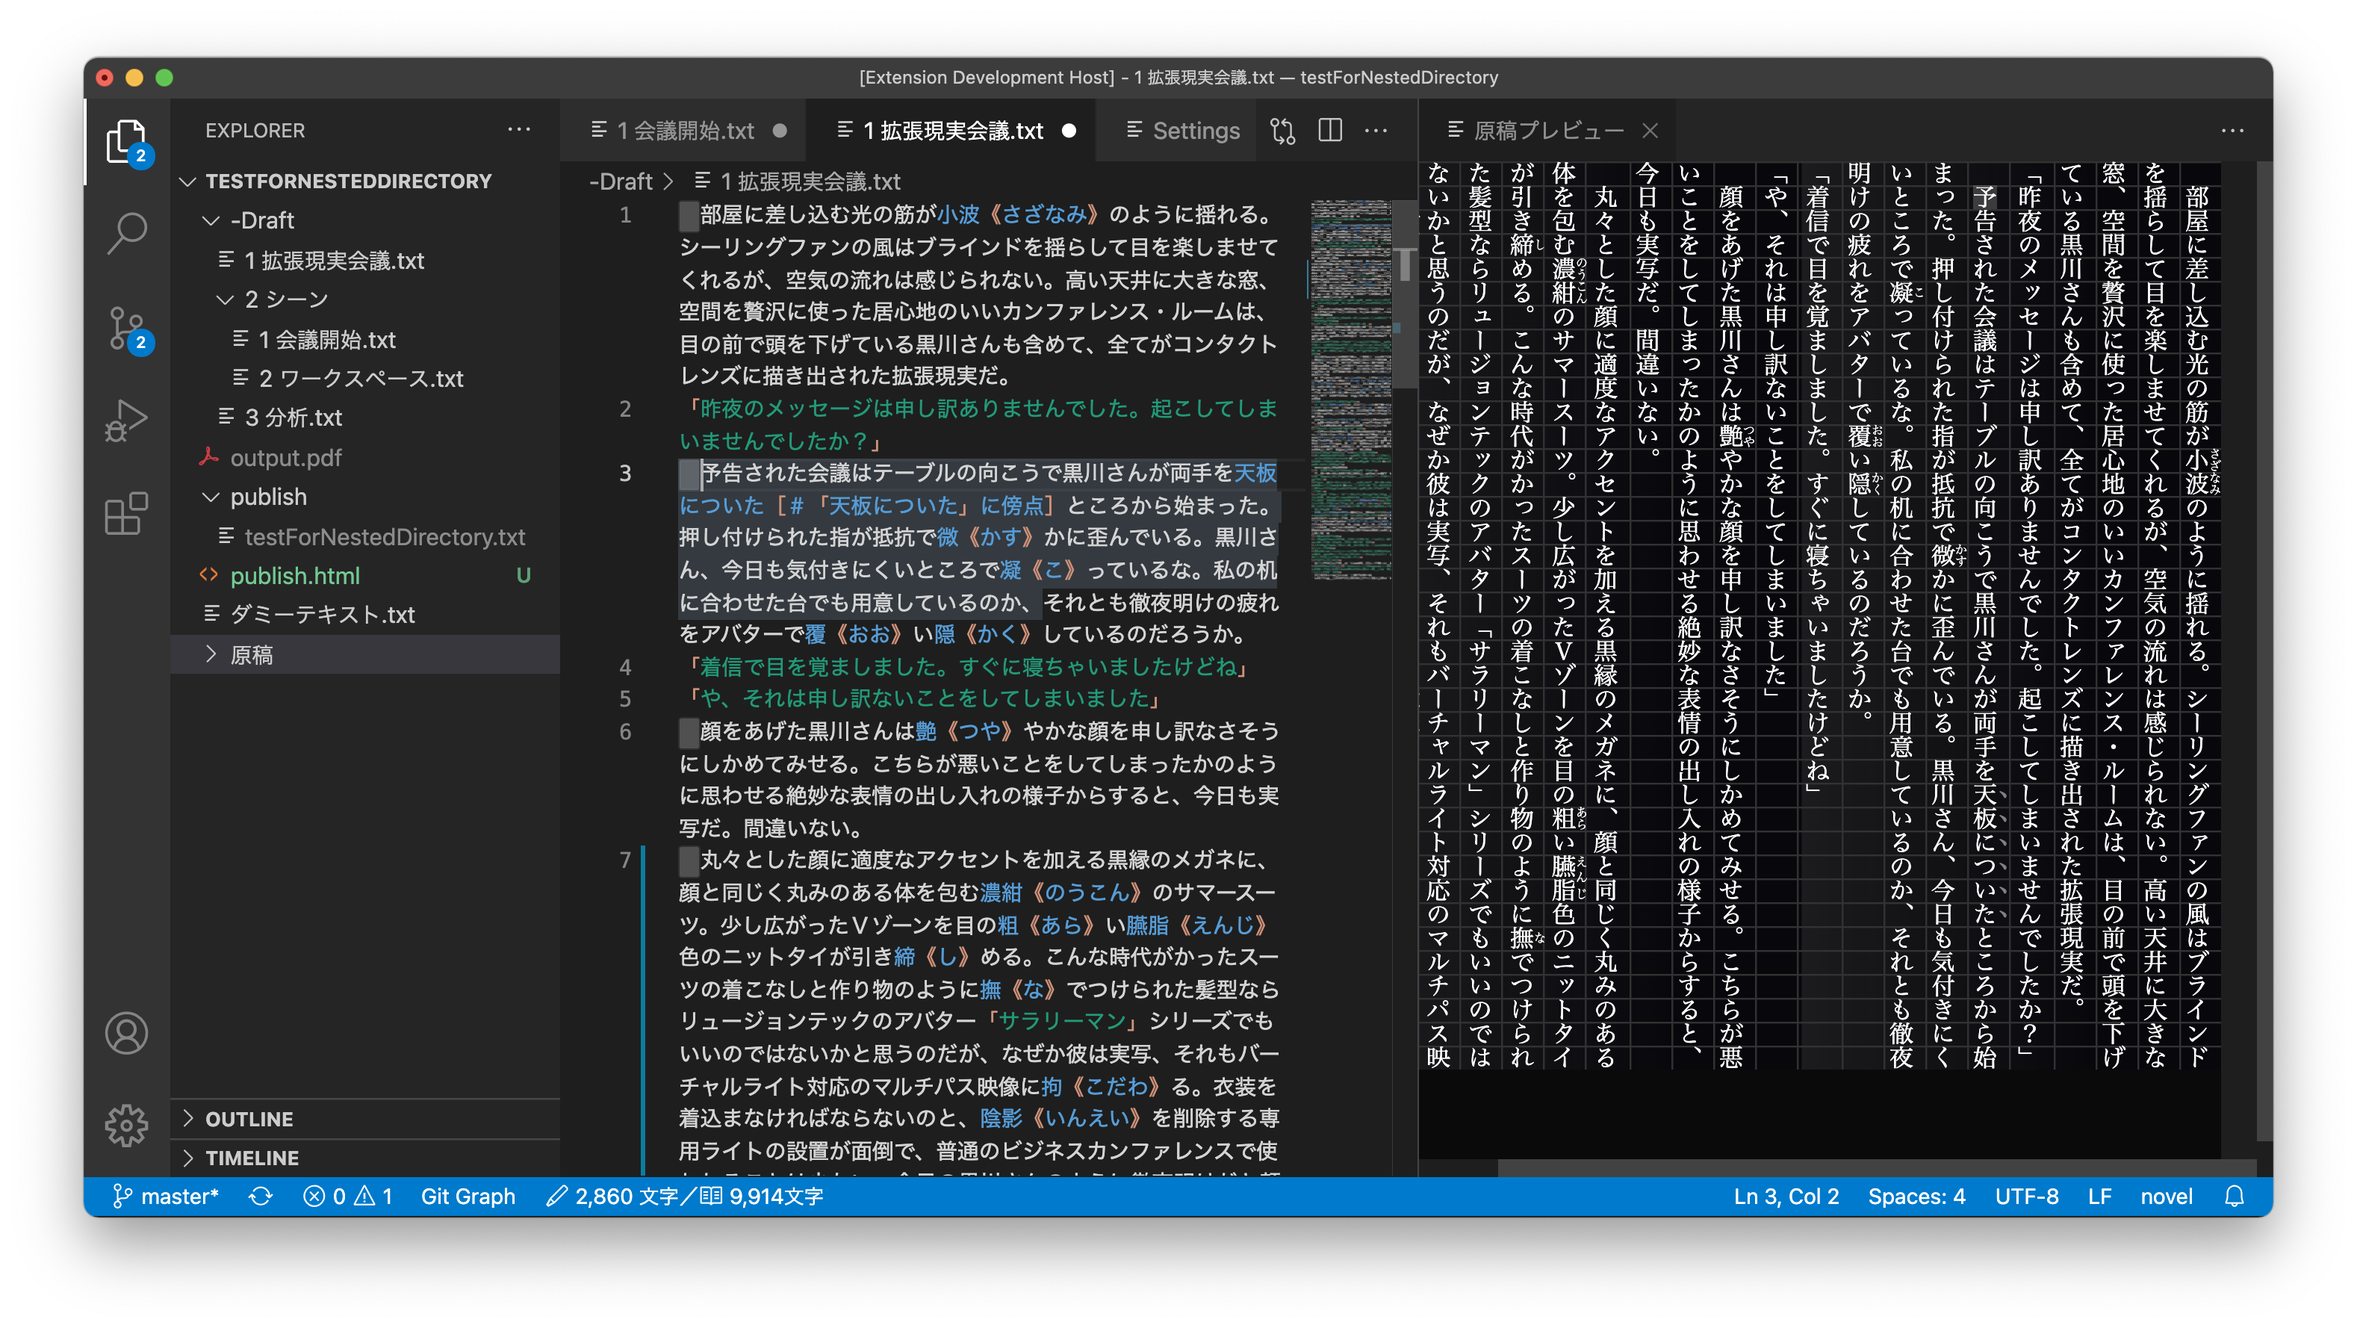
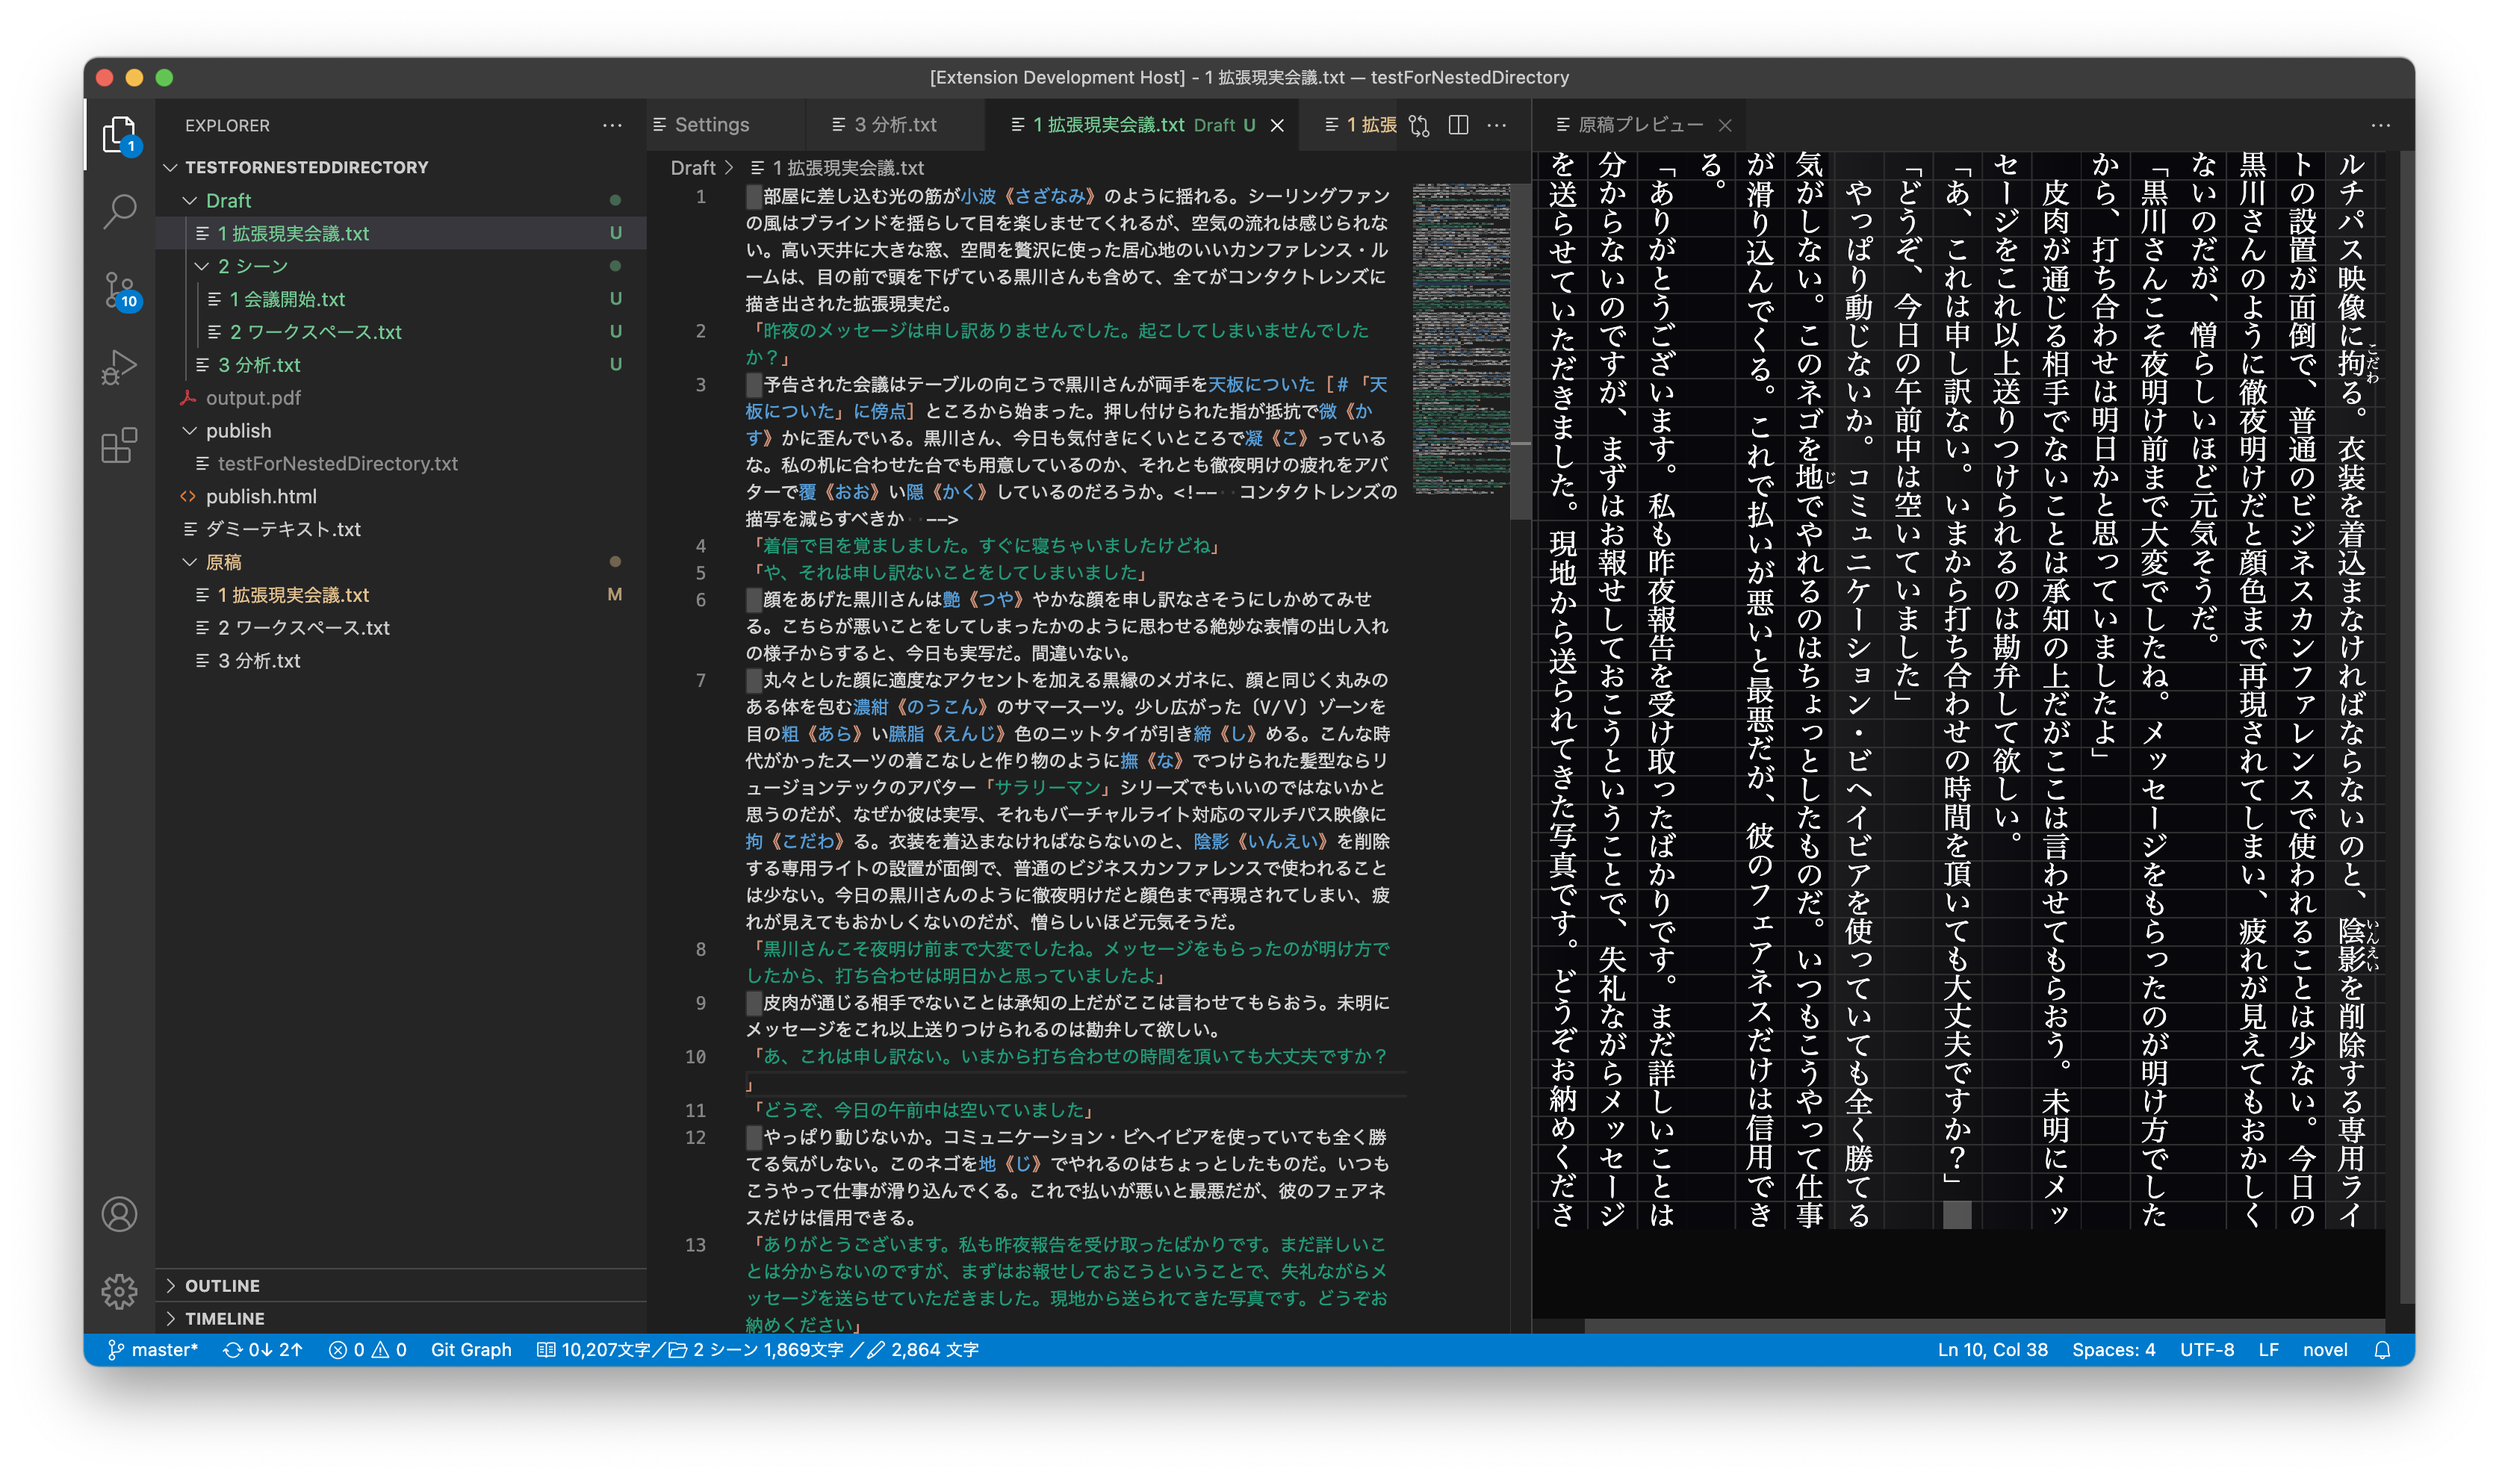
releasing 0.8.3

Changed region(s): [[0.0311, 0.0309, 0.9937, 0.928]]

diff --git a/src/charactorcount.ts b/src/charactorcount.ts
@@ -13,7 +13,7 @@ export class CharacterCounter {
     private _countingFolder = '';
     private _folderCount = {
                             label: '',
-                            amountLength: '';
+                            amountLength: '',
                             };
     public updateCharacterCount() {
         if (!this._statusBarItem) {

diff --git a/readme.md b/readme.md
@@ -15,6 +15,15 @@
     - そのほか、［＃……］で記される記法
 - 数字と単位
 
+## 文字数のカウント
+
+現在編集中のファイルの文字数と、ワークスペースにあるテキストファイル全てを合算した文字数をステータスバーに表示することができます。ワークスペースに「原稿」あるいは「Draft」という名称のフォルダーがある場合には、そのフォルダーの中だけを計算します。  
+また、特定のフォルダーの文字数だけを表示することも可能ですので、連載原稿の文字数を数えることも可能です。  
+
+現在のバージョン（0.8.3）では、特定フォルダーを保存できませんので、起動するたびに指定してください。
+
+![特定フォルダーの文字数カウント](https://github.com/ttrace/vscode-language-japanese-novel/raw/master/resource/counting-custom-folder.png)
+
 ## 縦書きプレビュー
 
 コマンドパレットの\[Novel:縦書きプレビュー\]で、現在使っているエディタのテキストを縦書きプレビューすることができます。  

diff --git a/CHANGELOG.md b/CHANGELOG.md
@@ -1,5 +1,11 @@
 # Changelog
 
+## 0.8.3
+
+特定フォルダーの文字数をカウントできるようになりました。  
+画面左のエクスプローラーでフォルダーを選択して［文字数カウント開始］を実行してください。  
+長い小説の一部分や連載の文字数を計算する時に便利に使えるようになったと思います（必須でした！）
+
 ## 0.8.2
 
 少数のフォントサイズが正しく設定できなかったバグを修正しています。  
